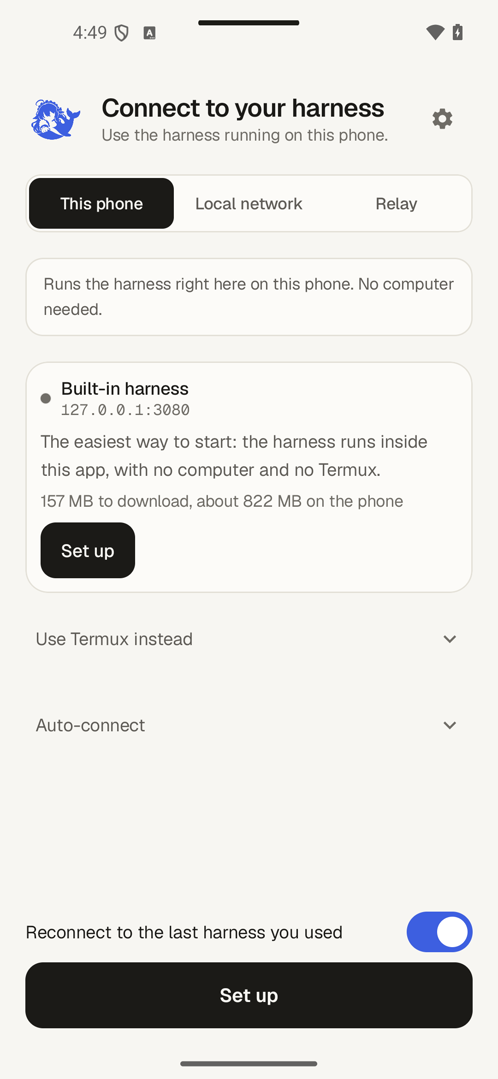
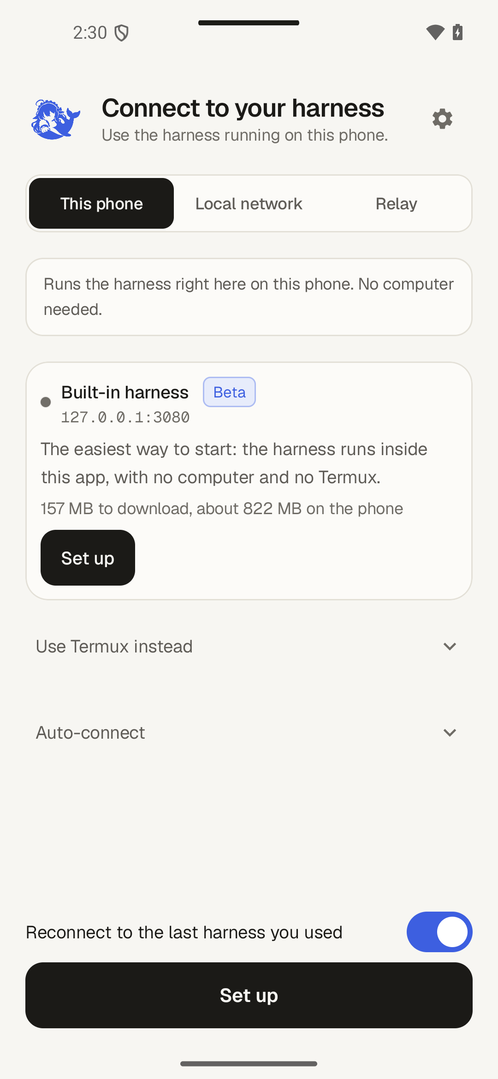
Release 0.22.0
Version name 0.22.0 (version code 2200, derived from the name; iOS reads
the same line through iosApp/scripts/version.sh). A release build now
satisfies the runtime manifest's minAppVersion 0.22.0 on its own; the
appVersion override stays debug-only.

The CHANGELOG's Unreleased section becomes 0.22.0: the built-in harness
marked Beta (tested on emulators and one Samsung phone), harness updates
with Go back, the in-app app updater, the harness starting again after an
app update, models and API keys, Run it / Ask me first, projects in the
Files app, and the fixes that came with the stack (keep-connected crash
on Android 12+, its six hours a day limit on Android 15, huge tool
arguments, Arabic sheet titles, compaction rows #98, goal actions #102).

The six READMEs and harness/ON-DEVICE.md mark the section Beta and say
the computer and Termux ways still work. docs/COMPATIBILITY.md gets a
0.22.0 row, plus the owner's 0.20.0 row as it was written. Device-frame
mockups from emulator screenshots live in
docs/images/releases/0.22.0/devices/, and docs/images/on-device/connect.png
is recaptured with the Beta tag.

diff --git a/CHANGELOG.md b/CHANGELOG.md
@@ -5,9 +5,16 @@ All notable changes to DSH Mobile are documented here. Format based on
 
 ## [Unreleased]
 
+## [0.22.0] - 2026-11-16
+
+![The built-in harness on a phone: the Connect card, the set-up page and the harness page, each marked Beta](docs/images/releases/0.22.0/devices/hero-built-in-harness.png)
+
 ### Added
 
-- **The harness on the phone itself: no computer needed.** On a 64-bit phone with Android 8.0 or
+- **The harness on the phone itself: no computer needed (Beta).** This is new, so the app marks it
+  **Beta** on the Connect card, the set-up page and the harness page. It was tested on emulators
+  (Android 11, 15 and a desktop image) and on one Samsung phone, and it may not work on every phone
+  yet; a harness on your computer or in Termux works as before. On a 64-bit phone with Android 8.0 or
   newer, **This phone** now offers **Set up**: the app downloads a small Linux system with Node.js
   and the DeepSeek Harness (about 155 MB, about 1.1 GB on the phone), checks its signature and every
   file, unpacks it, starts it and signs in, with no Termux and no command line. A new install on such
@@ -16,9 +23,15 @@ All notable changes to DSH Mobile are documented here. Format based on
   stop and restart, versions and uptime, storage, the log, and a **Keep it running** checklist. The
   guide is [`harness/ON-DEVICE.md`](harness/ON-DEVICE.md).
 
-  <img src="docs/images/on-device/connect.png" alt="The Connect screen on This phone, with the built-in harness card and Set up" width="200">
-  <img src="docs/images/on-device/setup.png" alt="The set-up page unpacking, with the explanation of commands on a phone" width="200">
-  <img src="docs/images/on-device/control.png" alt="The harness page with the command choice, projects and harness updates" width="200">
+  <img src="docs/images/releases/0.22.0/devices/beta-connect-card-phone.png" alt="The Connect screen on This phone, with the built-in harness card, its Beta tag and Set up" width="260">
+  <img src="docs/images/releases/0.22.0/devices/beta-setup-phone.png" alt="The set-up page with the Beta tag and the sentence saying it is new" width="260">
+  <img src="docs/images/releases/0.22.0/devices/beta-control-page-arabic-phone.png" alt="The harness page in Arabic, right to left, with the Beta tag next to the title" width="260">
+
+- **The harness comes back after an app update.** Installing an app update from inside the app
+  closes the app, and the harness with it. If the harness was running (or is set to start with the
+  app), it now starts again by itself once the update is in, without opening the app. If Android
+  does not allow that in the background, it starts the next time you open the app. A harness you
+  stopped stays stopped.
 
 - **Harness updates without an app update.** The app checks for a new harness release when it
   opens and once a day, tells you once, and installs it when you tap Update (it asks first on a
@@ -58,8 +71,10 @@ All notable changes to DSH Mobile are documented here. Format based on
 - **Keeping the connection in the background could crash the app on Android 12 and newer.** The
   keep-connected service was started the strict way on every reconnect, including ones in the
   background where Android refuses it. It now starts the same safe way as the built-in harness's
-  service, and on Android 15 it stops cleanly when the system's six-hours-a-day limit for its kind of
-  service is used up instead of the app being killed.
+  service. A refusal is no longer a crash; the app asks again the next time it is on screen.
+- **Keep connected in background stopped after six hours a day on Android 15.** Its service was
+  of a kind Android 15 limits to six hours a day. It is now the same kind as the built-in harness's
+  service, which has no such limit.
 - **A tool call with a huge argument could freeze the app.** A command of a few hundred KB made
   the chat row lay out the whole text and the app run out of memory. Rows and cards now show the
   start of it; the call keeps every byte.

diff --git a/README.fr.md b/README.fr.md
@@ -92,12 +92,14 @@ Le [site du projet](https://dshm.zyphite.com) présente l'application sur une se
 
 Le [journal des modifications](CHANGELOG.md) indique ce qui a changé dans chaque version.
 
-## Pas besoin d'ordinateur : le harness sur votre téléphone
+## Pas besoin d'ordinateur : le harness sur votre téléphone (bêta)
 
 | Connexion | Installation | Page du harness | Projets | Approbation |
 |:--:|:--:|:--:|:--:|:--:|
 | <img src="docs/images/on-device/connect.png" width="160" alt="L'écran Connexion en mode Ce téléphone, avec la carte du harness intégré et son bouton Installer"> | <img src="docs/images/on-device/setup.png" width="160" alt="La page d'installation en train de décompresser, avec l'explication du fonctionnement des commandes sur un téléphone"> | <img src="docs/images/on-device/control.png" width="160" alt="La page du harness avec le choix des commandes, les projets et les mises à jour du harness"> | <img src="docs/images/on-device/projects.png" width="160" alt="Les projets sur ce téléphone, avec un dépôt cloné"> | <img src="docs/images/on-device/approval.png" width="160" alt="Une commande affichée en entier, qui attend votre autorisation ou votre refus"> |
 | Une nouvelle installation s'ouvre ici. | Télécharger, vérifier, décompresser, démarrer, se connecter. | Démarrer, arrêter, commandes, mises à jour, stockage, journal. | Cloner, importer, partager et ouvrir dans Fichiers. | Avec Me demander d'abord, chaque commande vous attend. |
+
+**Bêta.** Le harness intégré est nouveau dans la 0.22.0 et a été testé sur des émulateurs et un téléphone Samsung, il ne marche donc peut-être pas encore sur tous les téléphones. Un harness sur votre ordinateur (Réseau local, Relais) ou dans Termux fonctionne toujours comme avant.
 
 L'application peut faire tourner le DeepSeek Harness en son sein : un petit système Linux avec Node.js
 et le harness, téléchargé une fois, vérifié par une signature et lancé avec `proot`. C'est le même

diff --git a/README.es.md b/README.es.md
@@ -92,12 +92,14 @@ El [sitio del proyecto](https://dshm.zyphite.com) ofrece una presentación en un
 
 El [registro de cambios](CHANGELOG.md) recoge lo que cambió en cada versión.
 
-## Sin ordenador: el harness en tu teléfono
+## Sin ordenador: el harness en tu teléfono (Beta)
 
 | Conectar | Configuración | Página del harness | Proyectos | Aprobación |
 |:--:|:--:|:--:|:--:|:--:|
 | <img src="docs/images/on-device/connect.png" width="160" alt="La pantalla Conectar en Este teléfono, con la tarjeta del harness integrado y su botón Configurar"> | <img src="docs/images/on-device/setup.png" width="160" alt="La página de configuración desempaquetando, con la explicación de cómo funcionan los comandos en un teléfono"> | <img src="docs/images/on-device/control.png" width="160" alt="La página del harness con la elección de comandos, los proyectos y las actualizaciones del harness"> | <img src="docs/images/on-device/projects.png" width="160" alt="Proyectos en este teléfono, con un repositorio clonado"> | <img src="docs/images/on-device/approval.png" width="160" alt="Un comando completo esperando a que lo permitas o lo rechaces"> |
 | Una instalación nueva se abre aquí. | Descargar, comprobar, desempaquetar, iniciar, iniciar sesión. | Iniciar, detener, comandos, actualizaciones, almacenamiento, registro. | Clonar, importar, compartir y abrir en Archivos. | Con Preguntarme antes, cada comando te espera. |
+
+**Beta.** El harness integrado es nuevo en 0.22.0 y se probó en emuladores y en un teléfono Samsung, así que puede que todavía no funcione en todos los teléfonos. Un harness en tu ordenador (Red local, Relay) o en Termux sigue funcionando como antes.
 
 La aplicación puede ejecutar el DeepSeek Harness dentro de sí misma: un pequeño sistema Linux con
 Node.js y el harness, que se descarga una vez, se comprueba con una firma y se ejecuta con `proot`. Es

diff --git a/README.md b/README.md
@@ -86,12 +86,14 @@ The [project site](https://dshm.zyphite.com) has a one-page overview, and the
 
 The [changelog](CHANGELOG.md) lists what changed in each release.
 
-## No computer needed: the harness on your phone
+## No computer needed: the harness on your phone (Beta)
 
 | Connect | Set-up | Harness page | Projects | Approval |
 |:--:|:--:|:--:|:--:|:--:|
 | <img src="docs/images/on-device/connect.png" width="160" alt="The Connect screen on This phone, with the built-in harness card and its Set up button"> | <img src="docs/images/on-device/setup.png" width="160" alt="The set-up page unpacking, with the explanation of how commands work on a phone"> | <img src="docs/images/on-device/control.png" width="160" alt="The harness page with the command choice, projects and harness updates"> | <img src="docs/images/on-device/projects.png" width="160" alt="Projects on this phone, with a cloned repository"> | <img src="docs/images/on-device/approval.png" width="160" alt="A command waiting for Allow once or Don't allow, shown in full"> |
 | A new install opens here. | Download, check, unpack, start, sign in. | Start, stop, commands, updates, storage, log. | Clone, import, share and open in Files. | With Ask me first, every command waits for you. |
+
+**Beta.** The built-in harness is new in 0.22.0 and was tested on emulators and one Samsung phone, so it may not work on every phone yet. A harness on your computer (Local network, Relay) or in Termux works as before.
 
 The app can run the DeepSeek Harness inside itself: a small Linux system with Node.js and the
 harness, downloaded once, checked against a signature, and run with `proot`. It is the same harness

diff --git a/docs/COMPATIBILITY.md b/docs/COMPATIBILITY.md
@@ -6,6 +6,8 @@ DSH Mobile speaks the DeepSeek Harness web-client protocol over `/api`. The prot
 
 | DSH Mobile | Harness | Notes |
 |---|---|---|
+| 0.22.0 | 0.2.2-rc.1 | The built-in harness (Beta) runs harness 0.2.2-rc.1 from runtime release 2026.11.15-2, whose `minAppVersion` is 0.22.0. On emulators it ran chats, commands (Run it and Ask me first), clones and harness updates; a Local network demo harness on 0.2.1-rc.2 still connected and listed its sessions. Same protocol baseline label as 0.19.0 |
+| 0.20.0 | 0.2.2-rc.1 | Same harness and protocol baseline as 0.19.1, with no wire changes: pull-to-refresh in Sessions, session-list resync, dialog scrim dismissal and the split Commands/Skills sheet |
 | 0.19.1 | 0.2.2-rc.1 | Same protocol baseline and the same harness as 0.19.0, with no wire changes. The sessions drawer fix (#70) was also checked against 0.2.1-rc.2 |
 | 0.19.0 | 0.2.2-rc.1 | All 15 real-host conformance scenarios pass on 0.2.2-rc.1, which changed live state frames, schedule edits, subagent chat addresses and image reads. Saving or deleting an automation needs a 0.2.2 host, because `schedule/edit` replaces `schedule/update` and `schedule/delete`. The in-app protocol baseline label still names the 0.2.1-rc.2 fixture until that fixture is regenerated |
 | 0.18.0 | 0.2.1-rc.2 | Same protocol baseline as 0.17.0. Rewind to this message, from holding a sent message, needs dsh-rewind-plugin on the host |

diff --git a/harness/ON-DEVICE.md b/harness/ON-DEVICE.md
@@ -7,6 +7,11 @@ is the simplest way to use the app, and on a phone that supports it, a new insta
 The other ways stay as they were: a harness on your computer (Local network, Relay, USB), or the
 harness in Termux ([`TERMUX.md`](TERMUX.md)).
 
+**Beta.** The built-in harness is new in 0.22.0 and the app labels it Beta. It was tested on
+emulators (Android 11, 15 and a desktop image) and one Samsung phone, so it may not work on every
+phone yet. If it gives you trouble, the ways above still work, and an issue with your phone's model
+and Android version helps a lot.
+
 ## What it is
 
 - **A small Linux inside the app.** A Debian base with Node.js and the harness, run with `proot`
@@ -115,6 +120,9 @@ Sessions and settings live in the harness's home, which is not shown in Files.
 - **The app.** Settings, About shows a newer DSH Mobile with **Download and install**: the app
   downloads it, checks it and hands it to Android's installer. The first time, Android asks you to
   allow installs from this app. These are two separate updates, with separate notifications.
+  Installing an app update closes the app and the harness with it. If the harness was running (or
+  is set to start with the app), it starts again by itself once the update is in. If Android does
+  not let it start in the background, it starts the next time you open the app.
 
 ## Keeping it running
 
